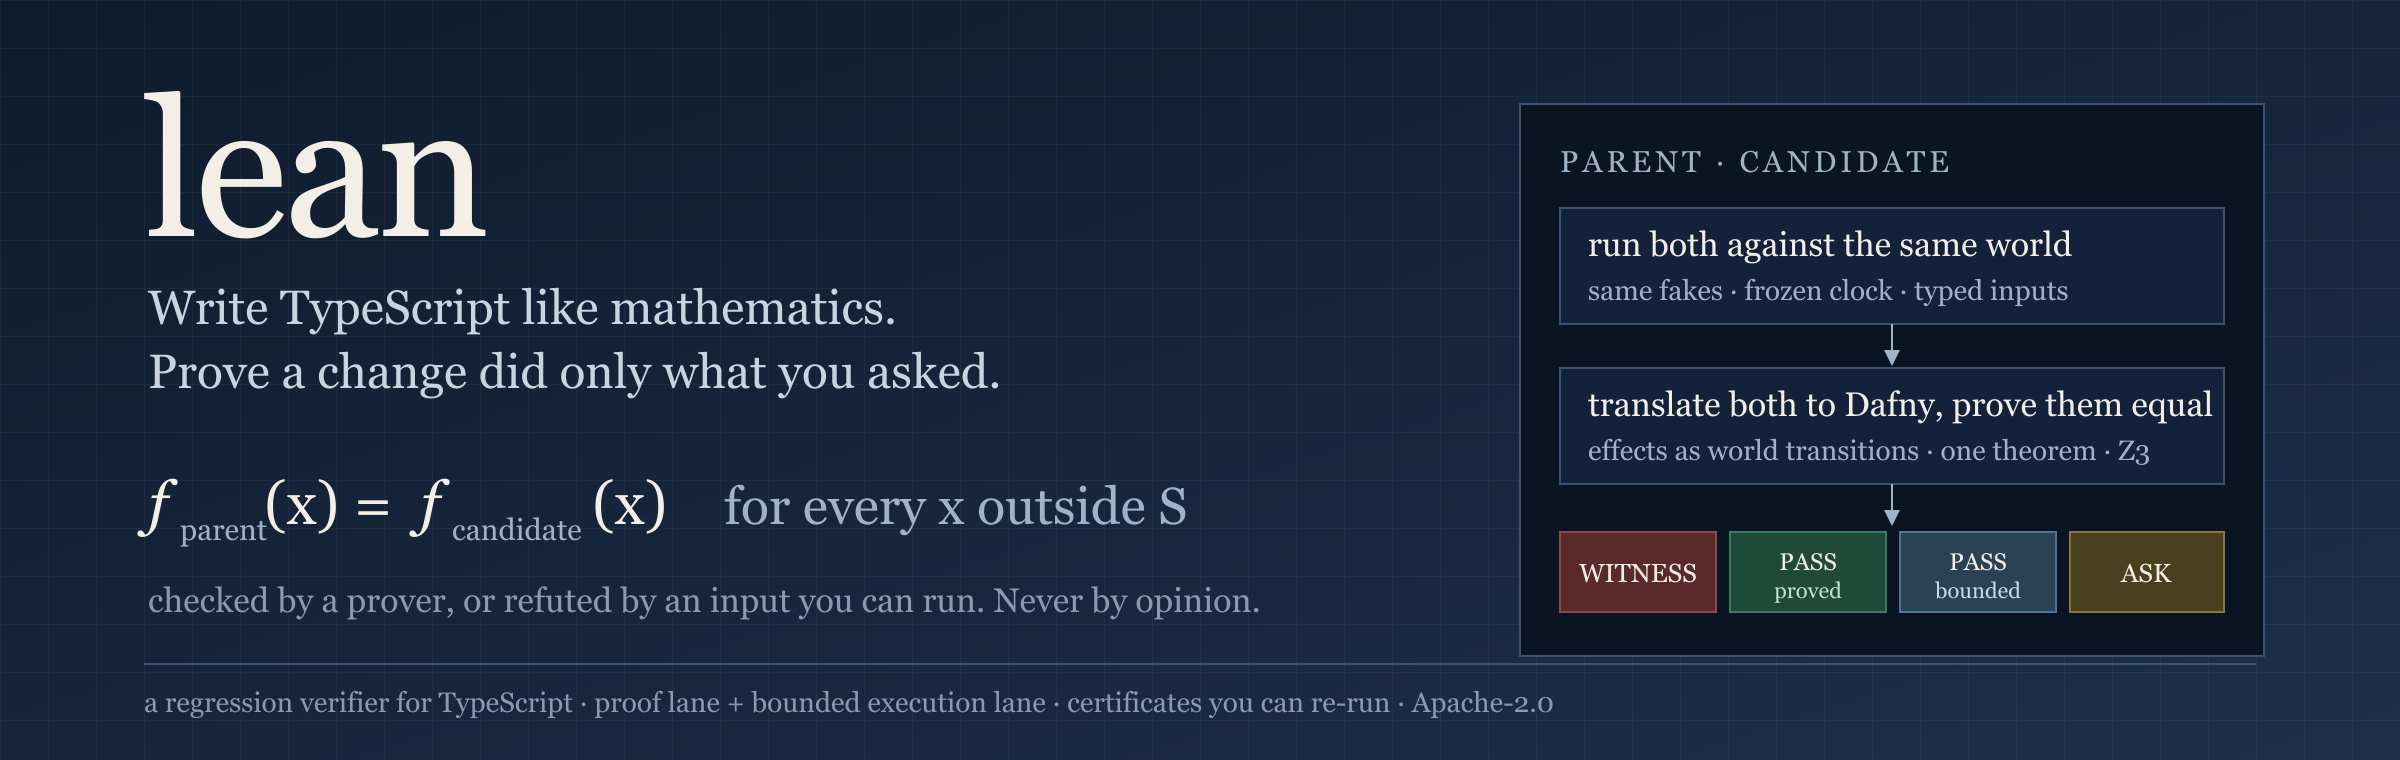
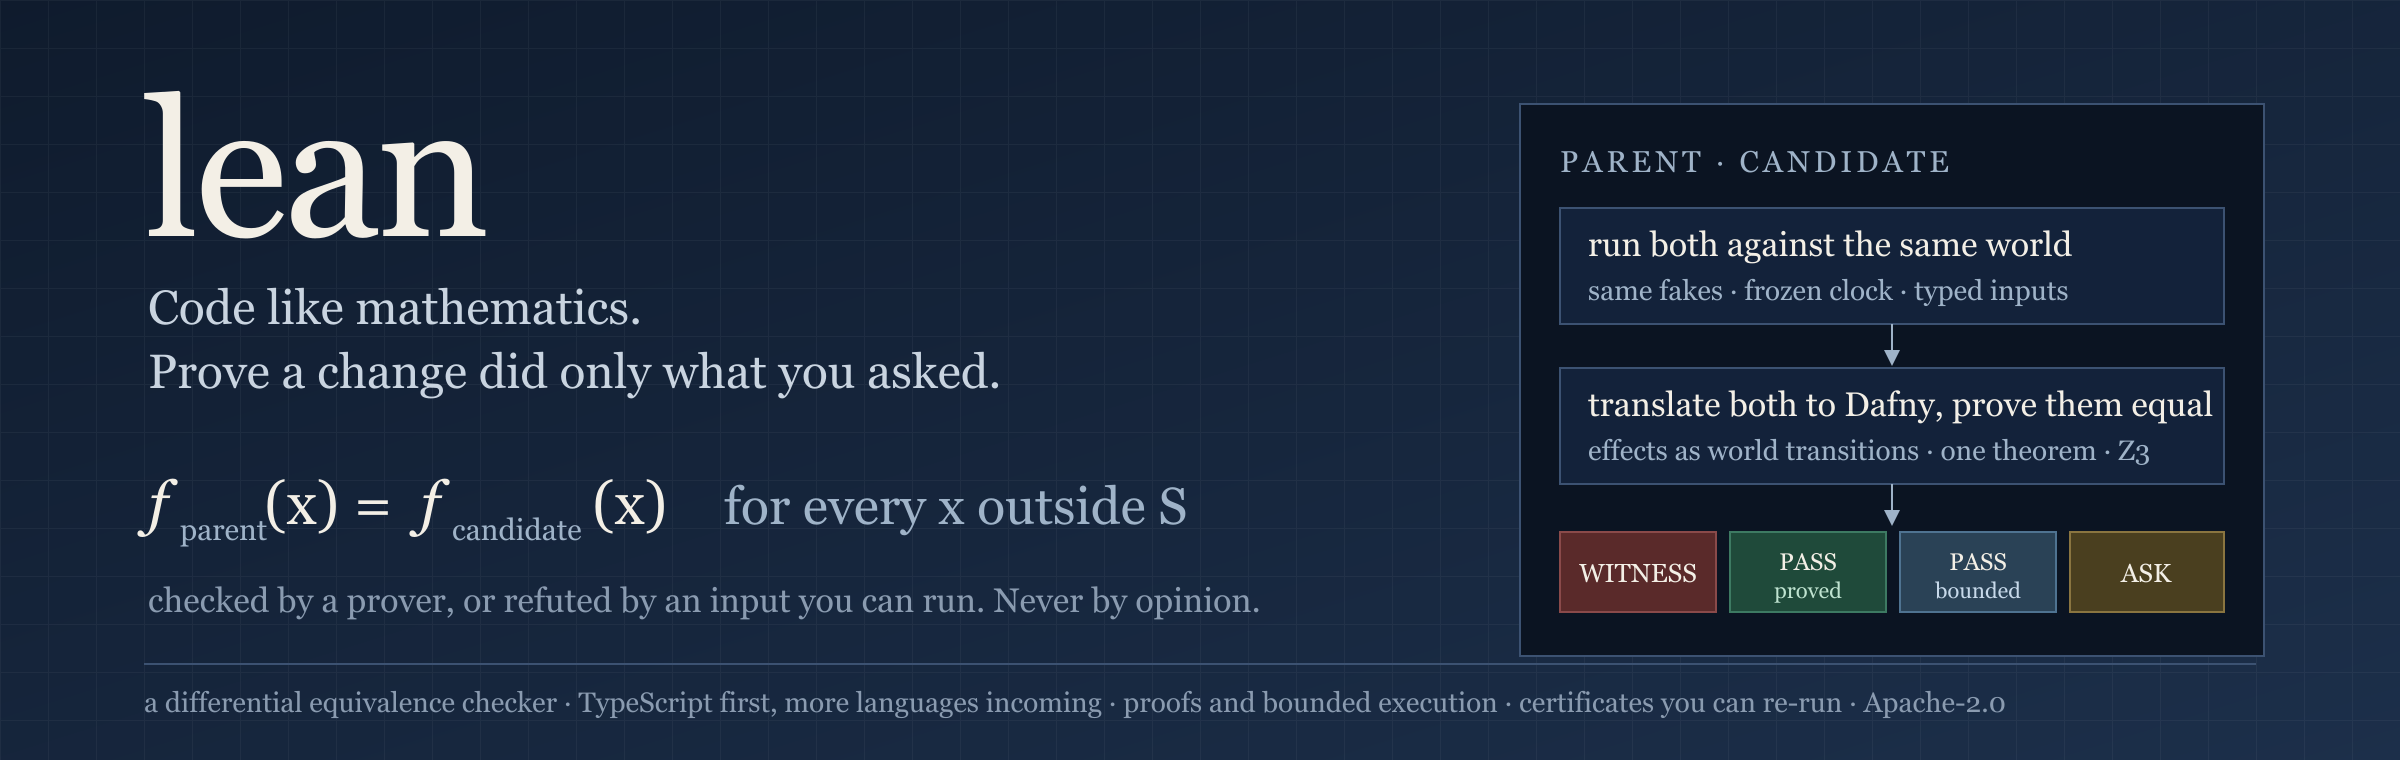
README and header: code like mathematics; TypeScript first, more languages incoming
Claude-Session: https://claude.ai/code/session_01YQF9m2J5wT1VYfqzmprdyv

Changed region(s): [[0.0625, 0.9079, 0.8438, 0.9382], [0.0625, 0.3632, 0.375, 0.4539]]

diff --git a/README.md b/README.md
@@ -1,5 +1,5 @@
 <p align="center">
-  <img src="docs/header.svg" alt="lean: write TypeScript like mathematics. Prove a change did only what you asked." width="100%">
+  <img src="docs/header.svg" alt="lean: code like mathematics. Prove a change did only what you asked." width="100%">
 </p>
 
 <p align="center">
@@ -14,7 +14,9 @@
 
 ---
 
-**lean is a differential equivalence checker for TypeScript.** Give it the old version and the new version of a function, and a declared scope of what was meant to change, and it decides whether the two behave the same everywhere else: by proof when it can, by execution when it cannot, and it says which.
+**lean is a differential equivalence checker.** Give it the old version and the new version of a function, and a declared scope of what was meant to change, and it decides whether the two behave the same everywhere else: by proof when it can, by execution when it cannot, and it says which.
+
+TypeScript is the first language. The core (the theorem, the checker, the conformance suite) is language-agnostic; each language adds a lint, a translator and an execution harness under `langs/`. Python is next.
 
 Every change to a program is a claim: *I changed this, and nothing else.* Tests sample that claim. Review guesses at it. lean checks it, and answers with one of four words, each backed by something you can re-run:
 
@@ -58,7 +60,7 @@ Class methods work too: `--unit PricingService.applyDiscount`. The whole file is
 
 ## What you get
 
-**Code that behaves like math.** Inside lean's subset, a TypeScript function *is* a mathematical function: the translator turns it into Dafny, and a prover reasons about every input at once. The subset is large: records, arrays, strings, sets, maps, optionals, literal unions, loops, early returns, switch, destructuring, async functions, class methods, recursion. [`langs/ts/subset.md`](langs/ts/subset.md) lists all of it.
+**Code like mathematics.** Inside lean's subset, a TypeScript function *is* a mathematical function: the translator turns it into Dafny, and a prover reasons about every input at once. The subset is large: records, arrays, strings, sets, maps, optionals, literal unions, loops, early returns, switch, destructuring, async functions, class methods, recursion. [`langs/ts/subset.md`](langs/ts/subset.md) lists all of it.
 
 **Effects that stay honest.** A call into the outside world (a database, a clock, an HTTP client, an imported function) is not pretended away. It becomes a *transition of an explicit world*: the same request in the same world gives the same answer, two reads of a clock are two values, and a candidate that asks the world something the parent never asked cannot be proved equal. The hole that most equivalence tools fall into (`readClock() === readClock()` proved equal to `true`) is closed by construction.
 
@@ -116,7 +118,7 @@ Measured on a private corpus of 110 escaped defects from production TypeScript (
 | the two-clock pair (`readClock() === readClock()` vs `true`) | **not provable**, as it must be |
 | test suite | 126 checks, conformance 21 of 21 |
 
-The full corpus run (every changed function through both lanes) is in progress; its table replaces this one when it lands.
+The full corpus run (every changed function through both lanes) is in progress; its table replaces this one when it lands. Numbers for the next languages will sit beside it.
 
 ## Limits
 
